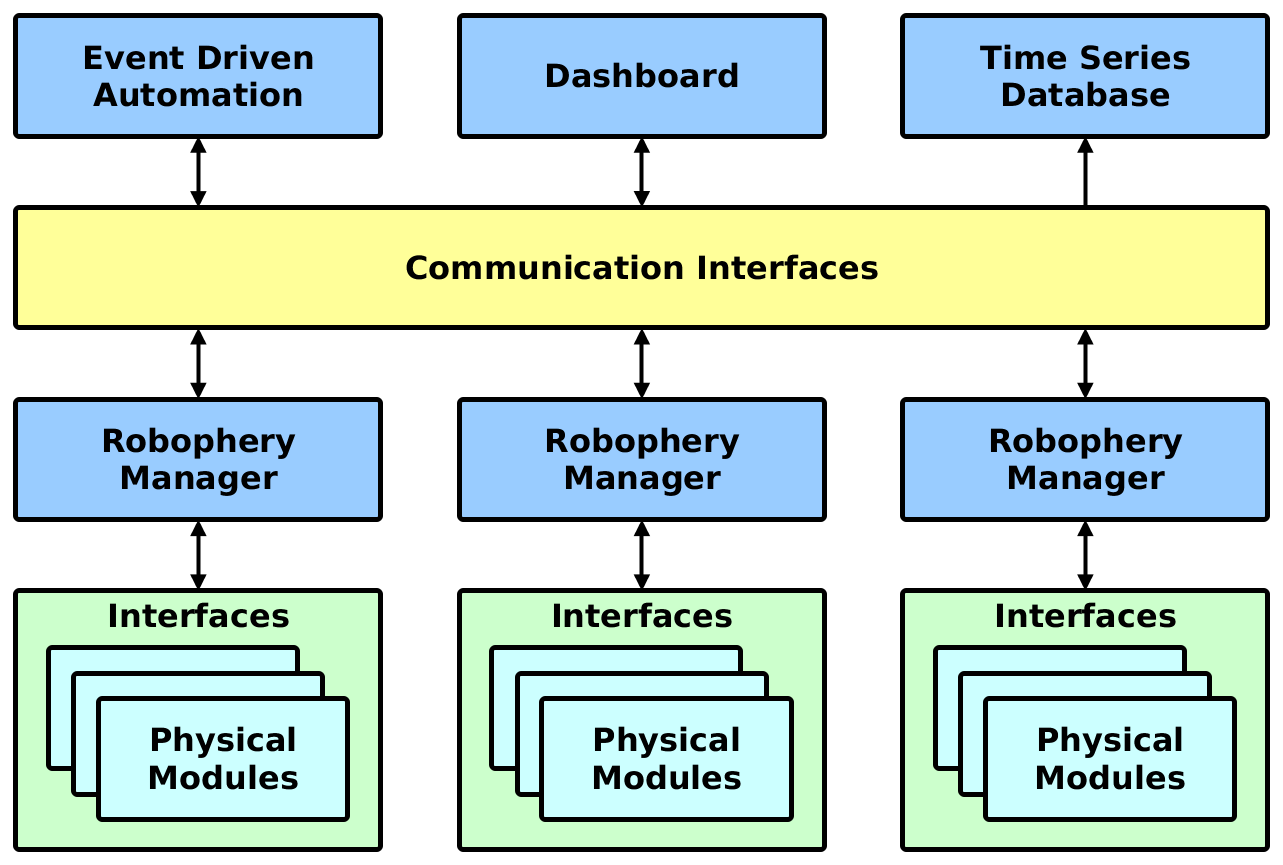
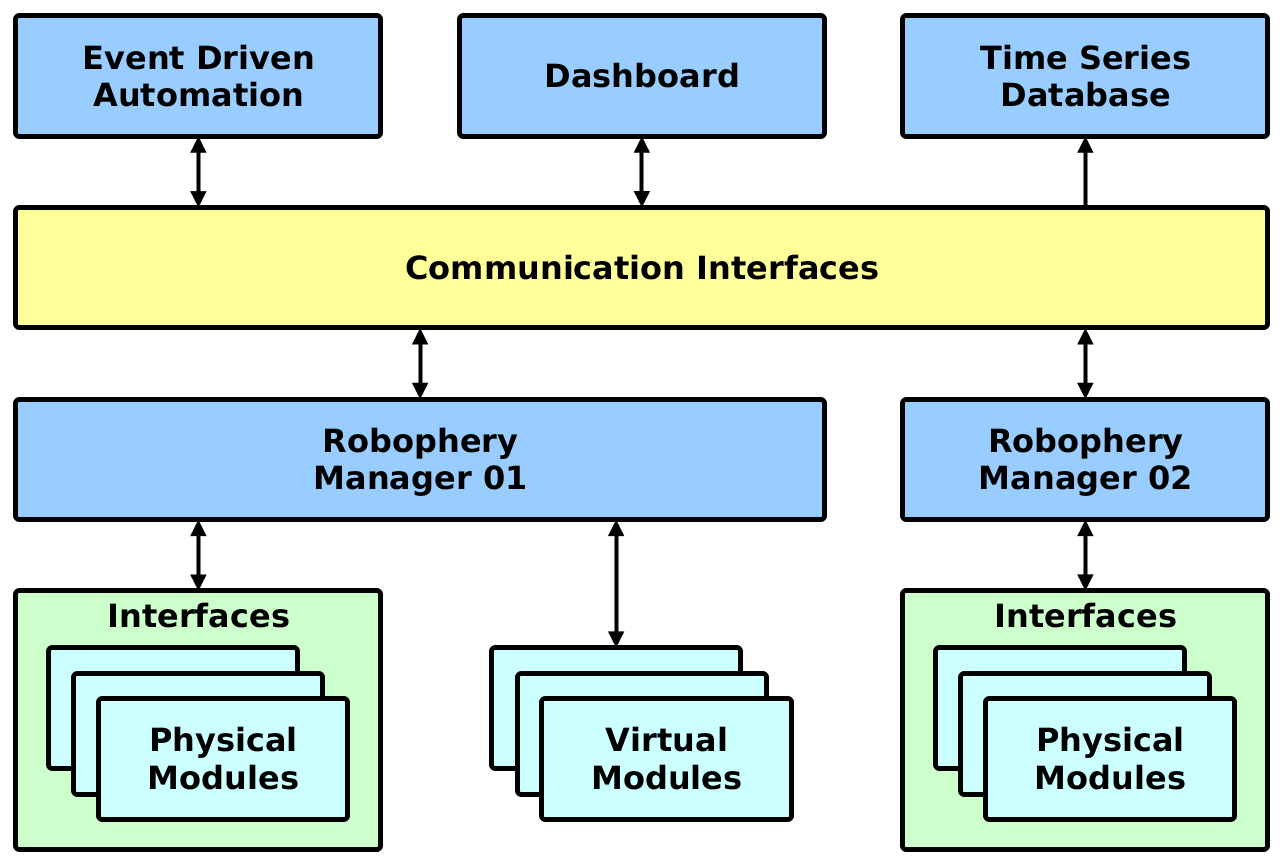
More images and docfixes

diff --git a/docs/source/doc/arch/architecture.rst b/docs/source/doc/arch/architecture.rst
@@ -3,30 +3,162 @@
 Architecture
 ============
 
+RoboPhery provides raw hardware interfaces to the environmental parameters
+through both wired and wireless interfaces. Platform is designed to allow
+stack interfaces (GPIO over MQTT or BlueTooth) to provide seamless
+intergration with vast variery of hardware deviced. The collected values are
+needed for creation and control of ambient intelligence systems. The event-
+driven control system, data storage and processing system can be provided in
+form of external cloud services or handled by x86 platform computer.
+
+.. Arribas-Ayllon, Michael. "Ambient Intelligence: an innovation narrative".
+.. Aarts, Emile H. L.; Encarnação, José Luis (13 December 2006). "True Visions: The Emergence of Ambient Intelligence". Springer – via Google Books.
+.. "The Internet of Things and Convenience (PDF Download Available)".
+.. "Ambient Intelligence Knowledge Center .: SemiEngineering.com".
+
+Ambient intelligence refers to environments that are sensitive and responsive
+to the presence of people. Ambient intelligence is a vision on the future of
+consumer electronics, telecommunications and computing that was originally
+developed in the late 1990s by Eli Zelkha and his team at Palo Alto Ventures
+for the time frame 2010–2020.[1][2][3][4] In an ambient intelligence world,
+devices work in concert to support people in carrying out their everyday life
+activities, tasks and rituals in an easy, natural way using information and
+intelligence that is hidden in the network connecting these devices (see
+Internet of Things). As these devices grow smaller, more connected and more
+integrated into our environment, the technology disappears into our
+surroundings until only the user interface remains perceivable by users.
+
+.. Emile Aarts, Rick Harwig and Martin Schuurmans, chapter Ambient Intelligence in The Invisible Future: The Seamless Integration Of Technology Into Everyday Life, McGraw-Hill Companies, 2001
+
+The ambient intelligence paradigm builds upon pervasive computing, ubiquitous
+computing, profiling, context awareness, and human-centric computer
+interaction design and is characterized by systems and technologies that are
+(Zelkha et al. 1998; Aarts, Harwig & Schuurmans 2001):
+
+embedded
+  Many networked devices are integrated into the environment
+context aware
+  These devices can recognize you and your situational context
+personalized
+  They can be tailored to your needs
+adaptive
+  They can change in response to you
+anticipatory
+  They can anticipate your desires without conscious mediation.
+
+.. Bieliková, Mária; Krajcovic, Tibor (2001), "Ambient Intelligence within a Home Environment", ERCIM News (published October 2001) (47)
+
+A typical context of ambient intelligence environment is a Home environment
+(Bieliková & Krajcovic 2001).
+
+The basic architectural setup consists of time-series database, user dashboard
+and event-driven control engine. This setup can be further expanded by
+machine learning services. Actual RoboPhery application is writtern in Python
+code compatible with MicroPython used on less expensive microcontrollers.
+
+Ambient Inteligence System
+==========================
+
+On the following Figure, you can see components of our proposed ambient
+intelligence system and their relationships. The central component is the
+message bus, in our case provided by MQTT broker. MQTT is a machine-to-machine
+connectivity protocol in area of "Internet of Things". It was designed as an
+extremely lightweight publish/subscribe messaging transport. It is useful for
+connections with remote locations where a small code footprint is required
+and/or network bandwidth is low. MQTT broker can handle thousands of messages
+per second, supports high-availability setups for both high performance and
+stability. Individual Autonomous agents and cloud-based Control system along
+with time-series databases are connected to this common message bus.
+
+.. image :: /_static/img/arch/arch_system.png
+   :width: 50 %
+   :align: center
+
+The event driven automation plays key role in controlling the behavior of the
+system, the inner conditions are altered by machine-learning algorithms that
+can provide better values to get the best outcome where entropy is involved.
+Virtual models can provide future models for autonomous decisions based on
+past conditions or predefined conditions. This mechanism is used control the
+autonomous agent if communication bus is broken.
+
+
+Event-driven automation
+-----------------------
+
+.. https://en.wikipedia.org/wiki/Event-driven_architecture
+
+Event-driven architecture (EDA), also known as message-driven architectures,
+is a software architecture pattern promoting the production, detection,
+consumption of, and reaction to events.
+
+.. K. Mani Chandy Event-Driven Applications: Costs, Benefits and Design Approaches, California Institute of Technology, 2006 [1]
+
+An event can be defined as `a significant change in state`[1]. For example,
+when a user turn's on a switch, the swith'es state changes from "off" to
+"on". A car dealer's system architecture may treat this state change as an
+event whose occurrence can be made known to other applications within the
+architecture. From a formal perspective, what is produced, published,
+propagated, detected or consumed is a (typically asynchronous) message called
+the event notification, and not the event itself, which is the state change
+that triggered the message emission. Events do not travel, they just occur.
+However, the term event is often used metonymically to denote the notification
+message itself, which may lead to some confusion.
+
+
+Time-series Database
+--------------------
+
+.. https://en.wikipedia.org/wiki/Time_series_database
+
+A time series database (TSDB) is optimized for handling time series data
+storage and retrieval, arrays of numbers indexed by time (a datetime or a
+datetime range). In some fields these time series are called profiles, curves,
+or traces. A time series of stock prices might be called a price curve. A time
+series of energy consumption might be called a load profile. A log of
+
+Despite the disparate names, many of the same mathematical operations,
+queries, or database transactions are useful for analysing all of them. The
+implementation of a database that can correctly, reliably, and efficiently
+implement these operations must be specialized for time-series data.
+
+TSDBs are databases that are optimized for time series data. Software with
+complex logic or business rules and high transaction volume for time series
+data may not be practical with traditional relational database management
+systems. Flat file databases are not a viable option either, if the data and
+transaction volume reaches a maximum threshold determined by the capacity of
+individual servers (processing power and storage capacity). Queries for
+historical data, replete with time ranges and roll ups and arbitrary time zone
+conversions are difficult in a relational database. Compositions of those
+rules are even more difficult. This is a problem compounded by the free nature
+of relational systems themselves. Many relational systems are often not
+modelled correctly with respect to time series data. TSDBs on the other hand
+impose a model and this allows them to provide more features for doing so.
+
+
+Autonomous Service
+==================
+
+Autonomous agent is Python service, which communicates with hardware
+peripherals and sending and receiving data from external communication
+sources.
+
 RoboPhery consists of several objects. Communication objects handle sending
 and receiving messages. Interface objects handle abstraction to hardware
 communication at compute device level. Modules encapsulate individual hardware
 sensors and actuators. Finally manager serves as central bus handling all
 necessary communication within the service.
 
-
-Autonomous Agent
-================
-
-Autonomous Agent is composed of Python daemon, which is communicating with
-peripherals (mostly sensors) and sending and receiving data from external
-communication sources.
-
-The important parts of Autonomous Agent System are subsystems for Data
-Persistence and Message Bus. Data Persistence subsystem is important, because
-when data are collected from sensors, it is important to data will be
+When data are collected from sensors, it is important to data will be
 transfered and stored in correct state to the highest part of system, e.g. to
-time-series database. Message Bus mainly take care about communication between
-agent in Autonomous Agent System, because data can't be easily transfered from
-sensor (agent) to database directly. Message Bus also can aggregate data to
-bigger units or make some basic transformations.
+time-series database. 
 
-Monitoring agents take care about conditions from sensors and values, which
+Message Bus mainly take care about communication between agent in Autonomous
+Agent System, because data can't be easily transfered from sensor (agent) to
+database directly. Message Bus also can aggregate data to bigger units or make
+some basic transformations.
+
+
+Autonomous services take care about conditions from sensors and values, which
 are captured. There are predefined conditions and when captured values are
 identical with same condition, monitoring agent send a message via message bus
 to reacting agent, which will performs predefined action.
@@ -34,27 +166,6 @@ to reacting agent, which will performs predefined action.
 .. image :: /_static/img/arch/arch_unit.png
    :width: 50 %
    :align: center
-
-
-System of Units
-===============
-
-On the following Figure, you can find these components and their cooperation
-together. There are shown two main system - Autonomous Agent System and Cloud-
-based Control System, where time-series is located database in some cloud
-infrastructure.
-
-.. image :: /_static/img/arch/arch_system.png
-   :width: 50 %
-   :align: center
-
-Planning and reasoning agents are important for environment or values, where
-entropy is involved. Planning agent provides future steps for autonomous
-system based on past conditions or predefined conditions.
-
-Reasoning agent examines future conditions on past conditions (captured data
-in past). This agent looks for best conditions for future state of system and
-for better reacting for captured data and contects in data are search for.
 
 
 Sample Devices

diff --git a/docs/source/doc/arch/overview.rst b/docs/source/doc/arch/overview.rst
@@ -3,27 +3,29 @@
 Project Introduction
 ====================
 
-This paper explains how to utilise inexpensive Linux or MicroPython compatible
-devices, actuators and sensors to serve as fully autonomous and isolated agent
-systems that can perform continuous automation for various applications. These
-scenarios range from smart home or environmental automation, surveillance, to
-full ambient intelligence  automation.
+This paper explains how we utilised inexpensive Linux and python compatible
+microcontrollers, actuators and sensors to create fully autonomous and
+isolated agent systems. These systems can perform wide range automation use
+cases. These range from smart home or environmental automation, surveillance,
+to complete ambient intelligence.
 
-The architecture of autonomous agents with connections to the overlay message
-bus for monitoring and controlling these systems is introduced in the first
-chapter. These systems use scalable and modular architecture to minimise the
-computational overhead which allows efficient use of available hardware
-resources.
+First chapter introduces global architecture of autonomous agents with
+communication protocols for messages to the overlaying event driven controllers,
+dashboards or any other services. These systems use scalable and modular
+architecture to minimise the computational overhead which allows efficient use
+of available hardware resources.
 
-The next part covers the autononocity of agents in more details. Logical and
-physical models of the system with description of the virtual functions that
-provide the simple thresholds or fuzzy logic reasoning.
+The next part covers the autonomous agents in more details. Models of hardware
+interfaces and corresponding modules. It also covers description of the
+virtual modules that provide the simple thresholds or fuzzy logic reasoning
+for autonomous control.
 
-The final chapter covers the overlay controlling and monitoring system that
+The final chapter shows simple interaction with overlay control system that
 can communicate with multiple autonomous systems, gather vital information and
-even start arbitrary actions on demand. The control system contains time-
-series database and second level of reasoning which can detect hardware
-malfunctions within the autonomous agent systems and perform necessary steps
-to. The usage of these proposed and implemented systems may go far beyond the
-original scope to monitor and control virtually any software or physical
-system.
+even publish arbitrary actions on demand.
+
+The control system contains time-series database, dashboard and reasoning
+platform which can detect hardware malfunctions of autonomous agent systems
+and perform necessary steps to repair it. With the usage of virtual models
+that provide  high-level access to individual physical modules of individual
+agents.

diff --git a/docs/source/doc/device/wifi.rst b/docs/source/doc/device/wifi.rst
@@ -4,12 +4,11 @@ WiFi Devices
 ============
 
 
-NodeMcu Lua WIFI v3
-===================
+NodeMcu Lua
+===========
 
-Low-power, highly-integrated Wi-Fi solution, A minimal of 7 external
-components Wide temperature range: -40°C to +125°C ESP8285 - ESP8266 embeded
-with 8 Mbit flash
+Low-power, highly-integrated Wi-Fi solution, a minimal of 7 external
+components, ESP8285 - ESP8266 embeded with 8 Mbit flash.
 
 .. figure:: /_static/img/device/nodemcu.jpg
    :width: 50 %
@@ -53,9 +52,16 @@ More information
 * https://espressif.com/en/products/hardware/esp32/overview
 
 
-Onion Omega
-===========
+Onion Omega2
+============
 
 .. figure:: /_static/img/device/onion.png
+   :width: 50 %
+   :align: center
+
+Available pins
+--------------
+
+.. image :: /_static/img/pinout/omega2.jpg
    :width: 50 %
    :align: center

diff --git a/docs/source/doc/arch/module.rst b/docs/source/doc/arch/module.rst
@@ -6,6 +6,7 @@ Available Modules
 Following categories show available families of sensors and actuators
 supported by RoboPhery platform.
 
+
 Physical Sensors
 ================
 
@@ -34,3 +35,11 @@ Physical Actuators
 * :doc:`Electric Motor </doc/actuator/electric-motor>`
 * :doc:`LCD Display </doc/actuator/display-lcd>`
 * :doc:`OLED Display </doc/actuator/display-oled>`
+
+
+Virtual Modules
+===============
+
+Virtual devices represent module aggregation and are useful when encapsulating
+some higher logic (lean right at 6 legged spider) or make autonomous
+computation when communication layer goes down.

diff --git a/docs/source/doc/device/usb.rst b/docs/source/doc/device/usb.rst
@@ -57,6 +57,20 @@ More information
 * English Datasheet - http://pdf1.alldatasheet.com/datasheet-pdf/view/602893/ETC2/UMFT201XB.html
 
 Where to buy
-----------------
+------------
 
 * 10 EUR - http://cz.mouser.com/ProductDetail/FTDI/UMFT201XB-01/
+
+
+Arduino - GPIO/SPI/I2C Board
+============================
+
+.. image:: /_static/img/device/arduino.jpg
+   :width: 50 %
+   :align: center
+
+More information
+----------------
+
+* Python library http://nanpy.github.io/
+* http://electronics.stackexchange.com/questions/15535/reliability-of-the-arduino-platform-for-industrial-use

diff --git a/docs/source/doc/virtual/index.rst b/docs/source/doc/virtual/index.rst
@@ -3,6 +3,10 @@
 Chapter 6. Virtual Systems
 ==========================
 
+Virtual devices represent module aggregation and are useful when encapsulating
+some higher logic (lean right at 6 legged spider) or make autonomous
+computation when communication layer goes down.
+
 .. toctree::
 
    vehicle-terrestrial.rst

diff --git a/docs/source/doc/device/arm.rst b/docs/source/doc/device/arm.rst
@@ -99,8 +99,8 @@ More information
 
 * http://www.udoo.org/
 
-Odroid C1
-=========
+ODroid C1/C2
+============
 
 .. image :: /_static/img/device/odroid_c1.jpg
    :width: 50 %
